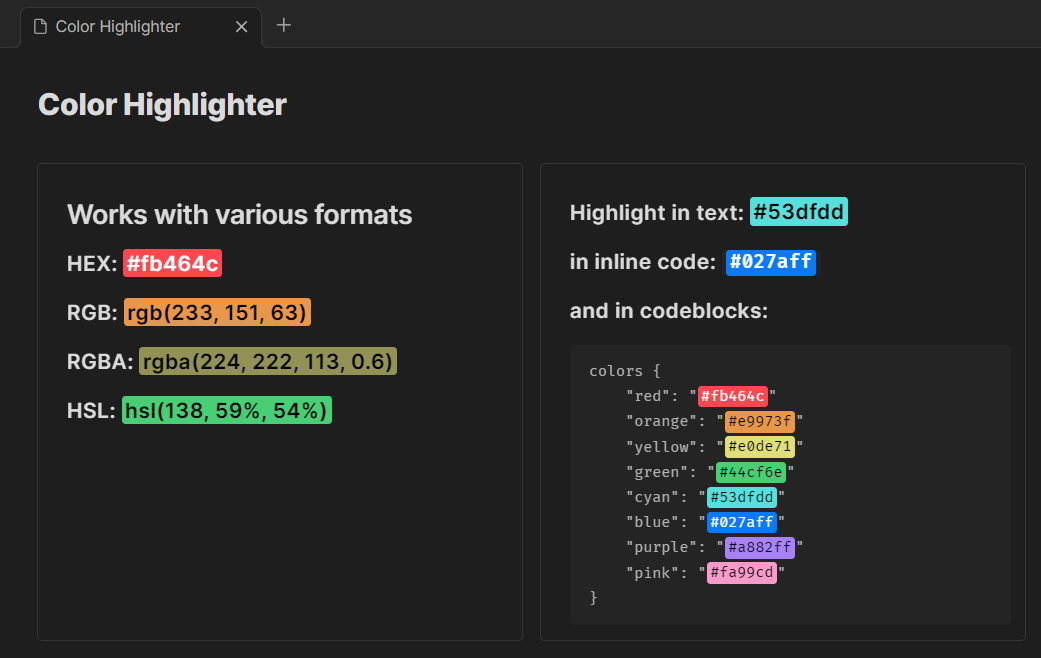
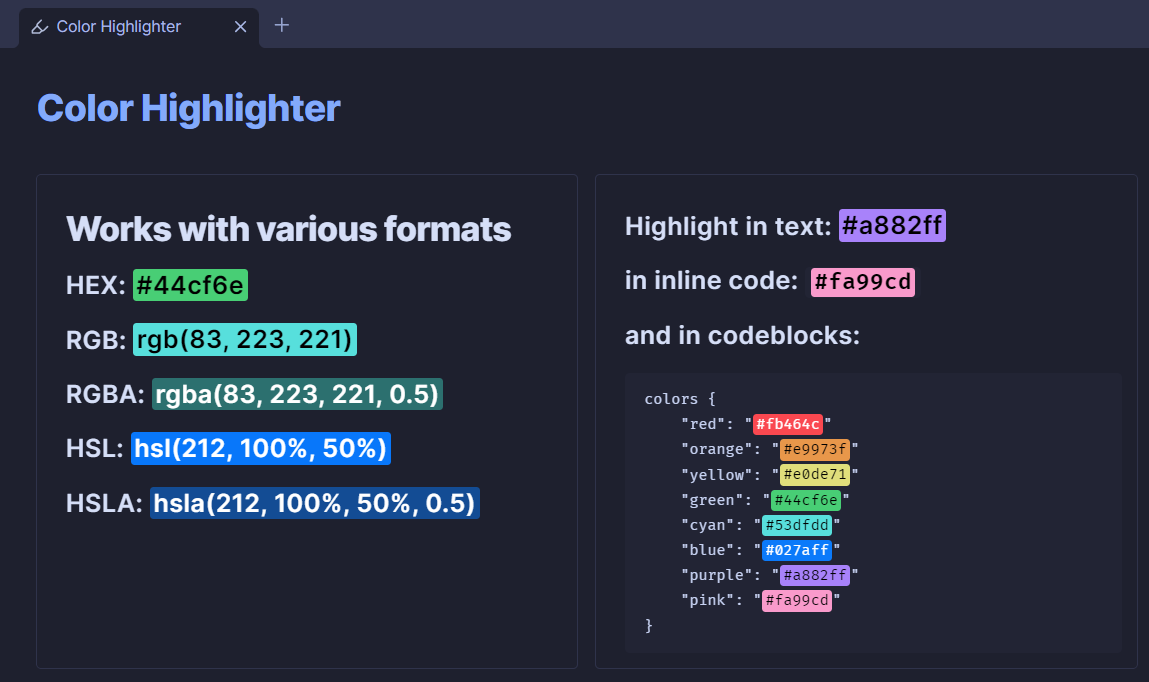
Add support for HSLA color codes, including text contrast adjustment

diff --git a/main.ts b/main.ts
@@ -326,7 +326,25 @@ export default class ColorHighlighterPlugin extends Plugin {
     
             return `rgb(${blendedR}, ${blendedG}, ${blendedB})`;
         } catch (error) {
-            console.error('Error in blendRgbaWithBackground:', error);
+            return background; // Fallback to background color if there's an error
+        }
+    }
+
+    blendHslaWithBackground(hsla: string, background: string): string {
+        try {
+            const [h, s, l, a] = this.extractHslaComponents(hsla);
+            const [bgR, bgG, bgB] = this.extractRgbComponents(background);
+            
+            // Convert HSLA to RGBA
+            const rgba = this.hslaToRgba(h, s, l, a);
+            
+            // Blend with background
+            const blendedR = Math.round((1 - a) * bgR + a * rgba[0]);
+            const blendedG = Math.round((1 - a) * bgG + a * rgba[1]);
+            const blendedB = Math.round((1 - a) * bgB + a * rgba[2]);
+    
+            return `rgb(${blendedR}, ${blendedG}, ${blendedB})`;
+        } catch (error) {
             return background; // Fallback to background color if there's an error
         }
     }
@@ -334,6 +352,8 @@ export default class ColorHighlighterPlugin extends Plugin {
     getEffectiveBackgroundColor(color: string, background: string): string {
         if (color.startsWith('rgba')) {
             return this.blendRgbaWithBackground(color, background);
+        } else if (color.startsWith('hsla')) {
+            return this.blendHslaWithBackground(color, background);
         }
         return color;
     }
@@ -356,17 +376,33 @@ export default class ColorHighlighterPlugin extends Plugin {
         return match.slice(0, 3).map(Number) as [number, number, number];
     }
 
+    extractHslaComponents(hsla: string): [number, number, number, number] {
+        const match = hsla.match(/hsla?\((\d+),\s*(\d+)%?,\s*(\d+)%?,?\s*([\d.]+)?\)/);
+        if (!match) {
+            throw new Error('Invalid HSLA string');
+        }
+        const h = parseInt(match[1], 10);
+        const s = parseInt(match[2], 10) / 100;
+        const l = parseInt(match[3], 10) / 100;
+        const a = match[4] ? parseFloat(match[4]) : 1;
+        return [h, s, l, a];
+    }
 
     hslToRgb(hsl: string): string {
         try {
-            const [h, s, l] = hsl.match(/\d+/g)?.map(Number) || [];
+            const [h, s, l] = hsl.match(/\d+%?/g)?.map(val => {
+                if (val.endsWith('%')) {
+                    return parseFloat(val) / 100;
+                }
+                return parseFloat(val);
+            }) || [];
             if (h === undefined || s === undefined || l === undefined) {
                 throw new Error('Invalid HSL values');
             }
-            const sNorm = s / 100;
-            const lNorm = l / 100;
+            const sNorm = s;
+            const lNorm = l;
             const c = (1 - Math.abs(2 * lNorm - 1)) * sNorm;
-            const x = c * (1 - Math.abs((h / 60) % 2 - 1));
+            const x = c * (1 - Math.abs(((h / 60) % 2) - 1));
             const m = lNorm - c / 2;
             let r = 0, g = 0, b = 0;
             if (h < 60) { r = c; g = x; b = 0; }
@@ -383,4 +419,30 @@ export default class ColorHighlighterPlugin extends Plugin {
             return 'rgb(0,0,0)'; // Fallback to black if there's an error
         }
     }
+
+    hslaToRgba(h: number, s: number, l: number, a: number): [number, number, number, number] {
+        let r, g, b;
+    
+        if (s === 0) {
+            r = g = b = l; // achromatic
+        } else {
+            const hue2rgb = (p: number, q: number, t: number) => {
+                if (t < 0) t += 1;
+                if (t > 1) t -= 1;
+                if (t < 1/6) return p + (q - p) * 6 * t;
+                if (t < 1/2) return q;
+                if (t < 2/3) return p + (q - p) * (2/3 - t) * 6;
+                return p;
+            };
+    
+            const q = l < 0.5 ? l * (1 + s) : l + s - l * s;
+            const p = 2 * l - q;
+            r = hue2rgb(p, q, h / 360 + 1/3);
+            g = hue2rgb(p, q, h / 360);
+            b = hue2rgb(p, q, h / 360 - 1/3);
+        }
+    
+        return [Math.round(r * 255), Math.round(g * 255), Math.round(b * 255), a];
+    }
+    
 }

diff --git a/main.js b/main.js
@@ -367,13 +367,27 @@ var ColorHighlighterPlugin = class extends import_obsidian2.Plugin {
       const blendedB = Math.round((1 - alpha) * bgB + alpha * b);
       return `rgb(${blendedR}, ${blendedG}, ${blendedB})`;
     } catch (error) {
-      console.error("Error in blendRgbaWithBackground:", error);
+      return background;
+    }
+  }
+  blendHslaWithBackground(hsla, background) {
+    try {
+      const [h, s, l, a] = this.extractHslaComponents(hsla);
+      const [bgR, bgG, bgB] = this.extractRgbComponents(background);
+      const rgba = this.hslaToRgba(h, s, l, a);
+      const blendedR = Math.round((1 - a) * bgR + a * rgba[0]);
+      const blendedG = Math.round((1 - a) * bgG + a * rgba[1]);
+      const blendedB = Math.round((1 - a) * bgB + a * rgba[2]);
+      return `rgb(${blendedR}, ${blendedG}, ${blendedB})`;
+    } catch (error) {
       return background;
     }
   }
   getEffectiveBackgroundColor(color, background) {
     if (color.startsWith("rgba")) {
       return this.blendRgbaWithBackground(color, background);
+    } else if (color.startsWith("hsla")) {
+      return this.blendHslaWithBackground(color, background);
     }
     return color;
   }
@@ -393,15 +407,31 @@ var ColorHighlighterPlugin = class extends import_obsidian2.Plugin {
     }
     return match.slice(0, 3).map(Number);
   }
+  extractHslaComponents(hsla) {
+    const match = hsla.match(/hsla?\((\d+),\s*(\d+)%?,\s*(\d+)%?,?\s*([\d.]+)?\)/);
+    if (!match) {
+      throw new Error("Invalid HSLA string");
+    }
+    const h = parseInt(match[1], 10);
+    const s = parseInt(match[2], 10) / 100;
+    const l = parseInt(match[3], 10) / 100;
+    const a = match[4] ? parseFloat(match[4]) : 1;
+    return [h, s, l, a];
+  }
   hslToRgb(hsl) {
     var _a;
     try {
-      const [h, s, l] = ((_a = hsl.match(/\d+/g)) == null ? void 0 : _a.map(Number)) || [];
+      const [h, s, l] = ((_a = hsl.match(/\d+%?/g)) == null ? void 0 : _a.map((val) => {
+        if (val.endsWith("%")) {
+          return parseFloat(val) / 100;
+        }
+        return parseFloat(val);
+      })) || [];
       if (h === void 0 || s === void 0 || l === void 0) {
         throw new Error("Invalid HSL values");
       }
-      const sNorm = s / 100;
-      const lNorm = l / 100;
+      const sNorm = s;
+      const lNorm = l;
       const c = (1 - Math.abs(2 * lNorm - 1)) * sNorm;
       const x = c * (1 - Math.abs(h / 60 % 2 - 1));
       const m = lNorm - c / 2;
@@ -438,5 +468,26 @@ var ColorHighlighterPlugin = class extends import_obsidian2.Plugin {
     } catch (error) {
       return "rgb(0,0,0)";
     }
+  }
+  hslaToRgba(h, s, l, a) {
+    let r, g, b;
+    if (s === 0) {
+      r = g = b = l;
+    } else {
+      const hue2rgb = (p2, q2, t) => {
+        if (t < 0) t += 1;
+        if (t > 1) t -= 1;
+        if (t < 1 / 6) return p2 + (q2 - p2) * 6 * t;
+        if (t < 1 / 2) return q2;
+        if (t < 2 / 3) return p2 + (q2 - p2) * (2 / 3 - t) * 6;
+        return p2;
+      };
+      const q = l < 0.5 ? l * (1 + s) : l + s - l * s;
+      const p = 2 * l - q;
+      r = hue2rgb(p, q, h / 360 + 1 / 3);
+      g = hue2rgb(p, q, h / 360);
+      b = hue2rgb(p, q, h / 360 - 1 / 3);
+    }
+    return [Math.round(r * 255), Math.round(g * 255), Math.round(b * 255), a];
   }
 };
